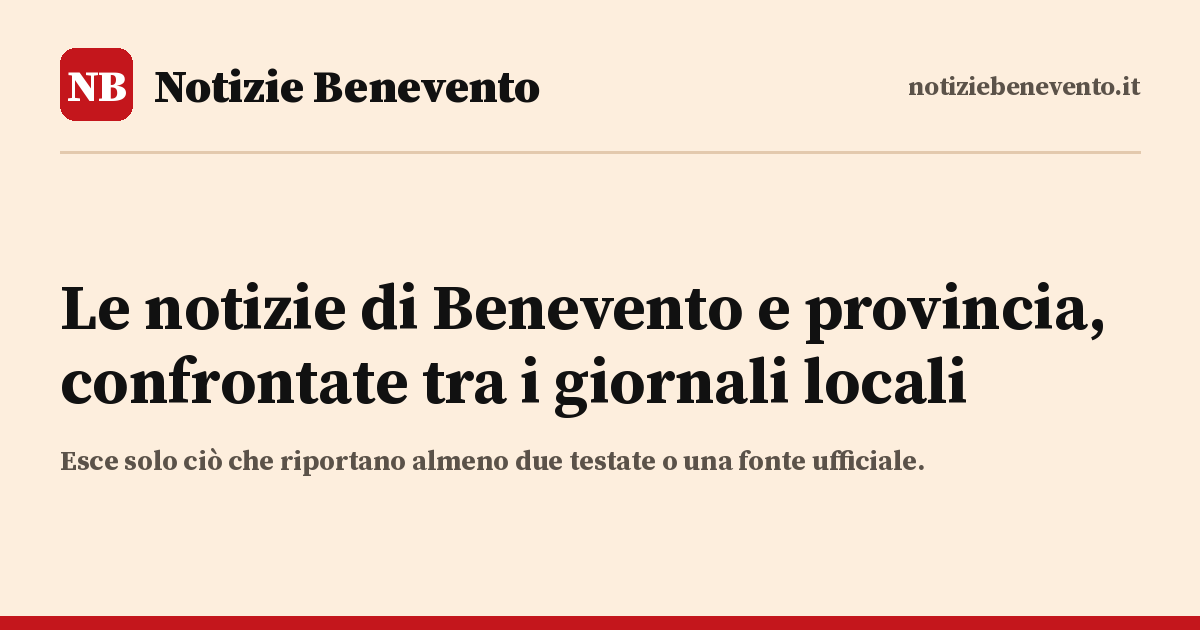
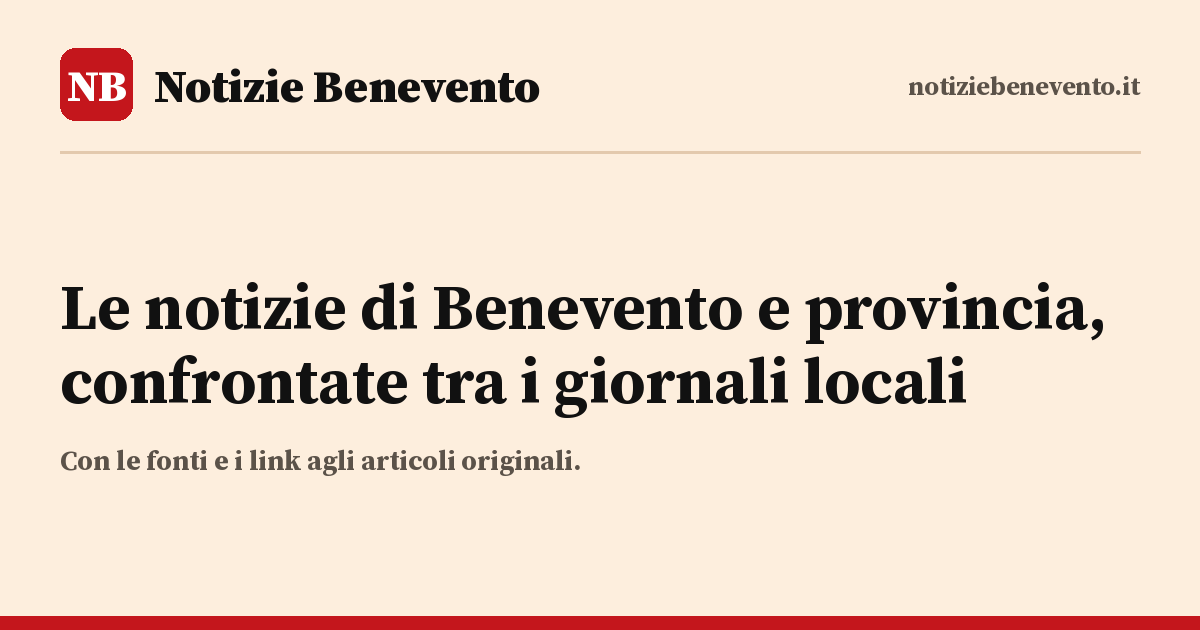
Agente: cronaca da un solo giornale autorevole (stato «una_fonte», scritta «Una sola fonte»), ASL e San Pio tra le fonti, TV7 e Il Caudino al posto di Quaderno, Corriere Sannita e Realtà Sannita, giro apposta sulle chiusure nei giorni di allerta

Changed region(s): [[0.0308, 0.6937, 0.7708, 0.754]]

diff --git a/index.html b/index.html
@@ -10,12 +10,12 @@
 <meta name="theme-color" content="#fdeedd">
 <!--seo-->
 <title>Notizie Benevento oggi: ultime notizie da Benevento e provincia</title>
-<meta name="description" content="Le ultime notizie di oggi da Benevento e dal Sannio: cronaca, strade, politica, eventi e allerte, confrontate tra i giornali locali. Esce solo ciò che riportano almeno due testate o una fonte ufficiale.">
+<meta name="description" content="Le ultime notizie di oggi da Benevento e dal Sannio: cronaca, strade, politica, eventi e allerte, confrontate tra i giornali locali, con i link agli articoli originali.">
 <link rel="canonical" href="https://notiziebenevento.it/">
 <meta property="og:type" content="website">
 <meta property="og:site_name" content="Notizie Benevento">
 <meta property="og:title" content="Notizie Benevento">
-<meta property="og:description" content="Le notizie di Benevento e provincia, confrontate tra i giornali locali. Esce solo ciò che riportano almeno due testate o una fonte ufficiale.">
+<meta property="og:description" content="Le notizie di Benevento e provincia, confrontate tra i giornali locali, con i link agli articoli originali.">
 <meta property="og:url" content="https://notiziebenevento.it/">
 <meta property="og:image" content="https://notiziebenevento.it/condivisione.png">
 <meta property="og:image:width" content="1200">
@@ -91,6 +91,7 @@
   .fonti a { color: var(--blu); }
   .fonti .conferma { color: var(--verde); font-weight: 700; }
   .fonti .ufficiale { color: #fff; background: var(--verde); padding: 0 5px; border-radius: 2px; font-weight: 700; }
+  .fonti .unafonte { color: #8a5300; font-weight: 700; }
   .nota { font-size: 13px; margin-top: 8px; padding: 6px 10px; border-left: 3px solid var(--rosso); background: rgba(255,255,255,.45); }
 
   .apertura { background: var(--carta-scura); padding: 18px 18px 6px; margin-bottom: 18px; }
@@ -444,7 +445,7 @@
 
   <footer>
     <p>Notizie Benevento è un report automatico: le notizie appartengono ai giornali citati. Qui le raccontiamo con parole nostre, confrontando le fonti, con i link agli articoli originali.</p>
-    <p>Una notizia compare solo se la riportano almeno due testate diverse oppure una fonte ufficiale (ANAS, INGV, Comuni, Prefettura, forze dell'ordine). Le accuse sono riportate con le parole usate dai giornali. Aggiornato ogni 2 ore, dalle 6 alle 22. Le visite si contano in forma anonima, senza cookie.</p>
+    <p>Una notizia compare se la riportano almeno due testate diverse oppure una fonte ufficiale (ANAS, INGV, Comuni, Prefettura, ASL, forze dell'ordine). La cronaca riportata da un solo giornale autorevole porta la scritta «Una sola fonte». Le accuse sono riportate con le parole usate dai giornali. Aggiornato ogni 2 ore, dalle 6 alle 22. Le visite si contano in forma anonima, senza cookie.</p>
     <p>Nessuna notizia viene cancellata: quando esce dalla prima pagina resta nell'<a href="#archivio">archivio</a>, allo stesso indirizzo.</p>
     <p class="sezioni-link">Sezioni: <a href="/sezione/strade/">Strade</a> · <a href="/sezione/cronaca/">Cronaca</a> · <a href="/sezione/politica/">Politica</a> · <a href="/sezione/eventi/">Eventi</a> · <a href="/sezione/allerte/">Allerte</a> · <a href="/sezione/altro/">Altro</a> · <a href="/meteo.html">Meteo Benevento</a><br>
       Zone: <a href="/zona/benevento/">Benevento città</a> · <a href="/zona/valle-telesina/">Valle Telesina</a> · <a href="/zona/valle-caudina/">Valle Caudina</a> · <a href="/zona/fortore/">Fortore e Tammaro</a> · <a href="/zona/altri-comuni/">Altri comuni</a> · <a href="/feed.xml">Feed RSS</a></p>
@@ -708,6 +709,7 @@
     var r = el("div", "fonti", []);
     var lista = Array.isArray(n.fonti) ? n.fonti : [];
     if (n.stato === "ufficiale") r.appendChild(el("span", "ufficiale", ["Fonte ufficiale"]));
+    else if (n.stato === "una_fonte") r.appendChild(el("span", "unafonte", ["Una sola fonte"]));
     else r.appendChild(el("span", "conferma", ["✓ " + lista.length + " fonti"]));
     r.appendChild(testo(" · "));
     lista.forEach(function (f, i) {
@@ -1062,6 +1064,7 @@
     var art = el("article", "appro", []);
     testataPagina(art, NOMI_CAT[n.categoria] || "Altro", n.luogo, n.titolo);
     art.appendChild(el("div", "meta", [(dallArchivio ? "Dall'archivio · " : "") + (n.pubblicato ? quando(n.pubblicato) + " · " : "") + fonti.length + (fonti.length === 1 ? " fonte" : " fonti confrontate")]));
+    if (n.stato === "una_fonte") art.appendChild(el("div", "nota", ["Per ora questo fatto lo riporta solo " + ((n.fonti || [])[0] || {}).nome + ". Lo aggiorniamo se arrivano altre fonti."]));
     var az = ascolta(testoArticolo(n));
     az.appendChild(condividi(n.titolo, linkArticolo(n), true));
     art.appendChild(az);

diff --git a/strumenti/pagine.py b/strumenti/pagine.py
@@ -45,7 +45,7 @@ SEZIONI = [
      "con le fonti ufficiali (ANAS, Provincia, Comuni) e i giornali locali messi a confronto."),
     ("sezione/cronaca", {"cat": "cronaca"}, "Cronaca Benevento: ultime notizie di cronaca dal Sannio",
      "Cronaca di Benevento e provincia", "Le notizie di cronaca di oggi da Benevento e dai paesi del Sannio, "
-     "confrontate tra i giornali locali: esce solo ciò che riportano almeno due testate o una fonte ufficiale."),
+     "confrontate tra i giornali locali, con i link agli articoli originali."),
     ("sezione/politica", {"cat": "politica"}, "Politica Benevento: Comune, Provincia e paesi del Sannio",
      "Politica a Benevento e nel Sannio", "Consiglio comunale, Provincia, Regione e paesi del Sannio: "
      "le notizie di politica di Benevento confrontate tra i giornali locali."),
@@ -75,7 +75,7 @@ SEZIONI = [
 ]
 CAT_PERCORSO = {s[1]["cat"]: s[0] for s in SEZIONI if "cat" in s[1]}
 DESCR_HOME = ("Le ultime notizie di oggi da Benevento e dal Sannio: cronaca, strade, politica, eventi e allerte, "
-              "confrontate tra i giornali locali. Esce solo ciò che riportano almeno due testate o una fonte ufficiale.")
+              "confrontate tra i giornali locali, con i link agli articoli originali.")
 
 
 def e(s):
@@ -230,7 +230,7 @@ def immagine_generica(path):
     y = 262
     for r in _a_capo("Le notizie di Benevento e provincia, confrontate tra i giornali locali", f, W - 120):
         d.text((60, y), r, font=f, fill="#111111"); y += 74
-    d.text((60, y + 30), "Esce solo ciò che riportano almeno due testate o una fonte ufficiale.",
+    d.text((60, y + 30), "Con le fonti e i link agli articoli originali.",
            font=_font(FONT_BOLD, 28), fill="#5b5249")
     d.rectangle([0, H - 14, W, H], fill="#c4161c")
     im.save(path, optimize=True)
@@ -322,7 +322,11 @@ def html_articolo(n, appro_collegato):
     fonti = a.get("fonti") if isinstance(a.get("fonti"), list) else []
     h = _testata_pagina(NOMI_CAT.get(n.get("categoria"), "Altro"), n.get("luogo"), n["titolo"])
     meta = ("Dall'archivio · " if n["_arch"] else "") + (data_it(n.get("pubblicato")) + " · " if n.get("pubblicato") else "")
-    h += f'<div class="meta">{e(meta)}{len(fonti)} {"fonte" if len(fonti) == 1 else "fonti confrontate"}</div>' + POSTO_ASCOLTA
+    h += f'<div class="meta">{e(meta)}{len(fonti)} {"fonte" if len(fonti) == 1 else "fonti confrontate"}</div>'
+    if n.get("stato") == "una_fonte" and n.get("fonti"):
+        h += (f'<div class="nota">Per ora questo fatto lo riporta solo {e(n["fonti"][0].get("nome", ""))}. '
+              'Lo aggiorniamo se arrivano altre fonti.</div>')
+    h += POSTO_ASCOLTA
     if foto_tema(n):
         b = foto_tema(n)[:-4]
         h += (f'<figure class="foto-tema"><img src="{b}-m.jpg" srcset="{b}-m.jpg 768w, {b}.jpg 1536w" '

diff --git a/strumenti/archivia.py b/strumenti/archivia.py
@@ -24,7 +24,10 @@ import sys
 
 CAT = {"strade", "cronaca", "meteo", "politica", "eventi", "altro"}
 ZONE = {"benevento", "telesina", "caudina", "fortore", "provincia"}
-STATI = {"confermata", "ufficiale"}
+STATI = {"confermata", "ufficiale", "una_fonte"}
+# le testate che da sole bastano per la cronaca (regola 2 di AGENTE.md), scritte senza spazi né maiuscole
+AUTOREVOLI = {"ilmattino", "ilsannioquotidiano", "ntr24", "ottopagine", "anteprima24", "labtv", "cronachedelsannio",
+              "beneventonews24", "tv7benevento"}
 VIETATE = ["choc", "shock", "incredibile", "ecco cosa", "non crederai", "!", "?"]
 ISO = re.compile(r"^\d{4}-\d{2}-\d{2}(T\d{2}:\d{2}(:\d{2})?[+-]\d{2}:\d{2})?$")
 GIORNO = re.compile(r"^\d{4}-\d{2}-\d{2}$")
@@ -230,6 +233,16 @@ def controlla(d, err, avv, adesso=None):
             testate = {re.sub(r"\s*\(.*\)$", "", x or "") for x in nomi_prima}
             if len(testate) < 2:
                 err.append(f"{w}: 'confermata' con meno di 2 testate")
+        if n.get("stato") == "una_fonte":
+            testate = {re.sub(r"[^a-z0-9]", "", re.sub(r"\s*\(.*\)$", "", x or "").lower()) for x in nomi_prima}
+            if len(testate) != 1:
+                err.append(f"{w}: 'una_fonte' vuole una sola testata (con due è 'confermata')")
+            elif not testate <= AUTOREVOLI:
+                err.append(f"{w}: 'una_fonte' solo con una testata autorevole (regola 2), non {nomi_prima[0]!r}")
+            if n.get("categoria") not in ("cronaca", "strade", "altro"):
+                err.append(f"{w}: 'una_fonte' solo per cronaca, strade o altro")
+            if n.get("rilevante"):
+                err.append(f"{w}: una notizia con una sola fonte non può essere 'rilevante'")
         if "immagine" in n:
             if n.get("categoria") == "cronaca":
                 err.append(f"{w}: niente immagine sulla cronaca (togli il campo immagine)")

diff --git a/strumenti/facebook.py b/strumenti/facebook.py
@@ -74,7 +74,10 @@ def candidate(notizie, gia, adesso):
 
 
 def messaggio(n):
-    return n["titolo"].strip() + ("\n\n" + n["sintesi"].strip() if n.get("sintesi") else "")
+    m = n["titolo"].strip() + ("\n\n" + n["sintesi"].strip() if n.get("sintesi") else "")
+    if n.get("stato") == "una_fonte" and n.get("fonti"):
+        m += f"\n\nPer ora lo riporta solo {n['fonti'][0].get('nome', '')}."
+    return m
 
 
 def chiama(metodo, percorso, token, dati=None):

diff --git a/AGENTE.md b/AGENTE.md
@@ -11,10 +11,19 @@ quello nuovo.
 
 1. **Solo notizie vere.** Mai inventare un fatto, un numero, un nome, un orario o una fonte. Se non l'hai letto
    in un articolo o in una fonte ufficiale, non esiste.
-2. **Una notizia esce solo se** la riportano **almeno due testate diverse**, oppure **una fonte ufficiale**
-   (Comune, Provincia, Prefettura, ANAS, INGV, Protezione Civile, forze dell'ordine). Due articoli dello stesso
-   giornale contano come una fonte.
-3. **Cronaca con persone coinvolte:** solo con almeno due testate. Le accuse si riportano **con le parole esatte
+2. **Una notizia esce se** la riportano **almeno due testate diverse**, oppure **una fonte ufficiale**
+   (Comune, Provincia, Prefettura, ASL, ospedale San Pio, ANAS, INGV, Protezione Civile, forze dell'ordine). Due
+   articoli dello stesso giornale contano come una fonte.
+   **Eccezione: cronaca da un solo giornale autorevole** (voluta dal proprietario il 21 ottobre 2026). Un fatto di
+   cronaca, di strade o di servizi (categorie `cronaca`, `strade`, `altro`) riportato da **una sola** di queste
+   testate può uscire con `"stato": "una_fonte"`: Il Mattino (Benevento), Il Sannio Quotidiano, NTR24, Ottopagine, Anteprima24, Lab TV, Cronache del Sannio, BeneventoNews24, TV7 Benevento. Prima fai una ricerca mirata per trovare la seconda fonte.
+   Il sito mostra da solo la scritta «Una sola fonte» e il nome del giornale. Non vale mai per: politica, allerte,
+   eventi, notizie `rilevante`, fatti scritti solo da altre testate (Infosannio, Fremondoweb, Gazzetta di Benevento,
+   Benevento Giornale, Il Caudino: con loro servono due testate). Appena una seconda testata riporta il fatto,
+   aggiungila e passa a `confermata`.
+3. **Cronaca con persone coinvolte:** almeno due testate, oppure una sola testata autorevole (regola 2). Con **una
+   sola fonte**, se il fatto accusa qualcuno (indagato, arrestato, denunciato, processato, condannato) **non
+   scrivere nome e cognome**: età, paese e ruolo bastano («un 53enne di Benevento»). Le accuse si riportano **con le parole esatte
    dei giornali** («indagato», «arrestato», «denunciato», «presunto»): mai aggiungere, mai riassumere un'accusa
    con parole più pesanti. Nomi di vittime minorenni (anche se oggi sono maggiorenni ma erano minorenni al
    momento del fatto): mai, da nessuna parte. Se il titolo di un articolo fonte contiene quel nome, nell'elenco
@@ -48,6 +57,8 @@ Lavora in parallelo (6-8 letture insieme). Per ogni fonte tieni nota: letta / no
   `https://webservices.ingv.it/fdsnws/event/1/query?starttime=<3h fa UTC>&lat=41.2&lon=14.65&maxradius=0.4&orderby=time&format=text`
   (riportare solo magnitudo ≥ 2.5 o sciami di ≥ 10 scosse)
 - San Marco dei Cavoti (feed): `https://www.comune.sanmarcodeicavoti.bn.it/feed/`
+- ASL Benevento, notizie e avvisi (screening, servizi, vaccini, ambulatori): `https://www.aslbenevento.it/notizie`
+- Ospedale San Pio di Benevento, news e avvisi: `https://www.aosanpio.it/categoria/news-ed-eventi/`
 - **Allerte ufficiali già confrontate (leggile per prime):** `https://notiziebenevento.it/meteo.json`, campo `allerte`.
   Lo aggiorna ogni ora il programma del meteo (`strumenti/meteo.py`): per oggi e domani dà il livello di ognuna
   delle 3 zone del Sannio dal **bollettino nazionale della Protezione civile** (`zone`: livello, rischio
@@ -62,8 +73,11 @@ Lavora in parallelo (6-8 letture insieme). Per ogni fonte tieni nota: letta / no
 
 **Giornali del Sannio (sempre, homepage o sezione):** ottopagine.it/bn/ · ilsannioquotidiano.it · ntr24.tv ·
 labtv.net · cronachedelsannio.it/sannionews24/ · fremondoweb.com/category/notizie-dalla-valle-telesina/ ·
-corrieresannita.it · gazzettabenevento.it · anteprima24.it/benevento/ · infosannionews.it · beneventogiornale.com ·
-beneventonews24.it · ilquaderno.it · realtasannita.it · ilmattino.it/benevento/
+gazzettabenevento.it · anteprima24.it/benevento/ · infosannionews.it · beneventogiornale.com ·
+beneventonews24.it · ilmattino.it/benevento/ · tvsette.net (TV7 Benevento: tieni solo le notizie del Sannio) ·
+ilcaudino.it/feed/ (Valle Caudina: tieni solo i Comuni della provincia di Benevento, non Cervinara, Rotondi, San
+Martino Valle Caudina e gli altri irpini). Il Sannio Quotidiano esce tutto tra le 7:30 e le 7:50 ed è spesso la
+seconda fonte dei fatti del giorno prima: al giro delle 8 controlla i fatti di ieri rimasti con una sola fonte.
 
 **Comuni senza feed (a ogni giro):** pagine notizie di
 `www.comune.<nome>.bn.it` per montesarchio, santagatadegoti, sangiorgiodelsannio, airola, sanbartolomeoingaldo,
@@ -109,6 +123,11 @@ Regole:
 - Le chiusure di più Comuni per la stessa allerta: **una sola notizia** aggiornata a ogni giro con l'elenco dei Comuni
   e cosa chiude (es. «Allerta arancione: chiusi scuole e parchi a Benevento, Montesarchio e Telese»), ogni Comune con
   la sua fonte (comunicato o ordinanza del Comune, oppure due giornali).
+- **Nei giorni di allerta** (gialla, arancione o rossa per oggi o domani), a ogni giro, oltre alle fonti solite:
+  cerca «scuole chiuse», «ordinanza» e «allerta» nei titoli di tutti i giornali letti e fai una ricerca mirata
+  («scuole chiuse <giorno> Sannio», «allerta <giorno> Comuni Benevento chiusure»). Per **ogni Comune nominato**
+  apri il suo sito (`www.comune.<nome>.bn.it`, anche se non è tra i 19 di sempre) e cerca l'ordinanza. Aggiorna
+  l'elenco della notizia delle chiusure anche se l'hai già scritta: deve crescere finché escono Comuni nuovi.
 - Le **previsioni del tempo no**: stanno nella pagina Meteo, che fa un programma a parte.
 
 ## Come lavorare una notizia
@@ -278,7 +297,7 @@ aggiorni a ogni giro, come notizie.json.
     "zona": "benevento|telesina|caudina|fortore|provincia",
     "immagine": "tema da img/temi/temi.json (facoltativo, mai per la cronaca)",
     "luogo": "paese o località", "pubblicato": "ISO dell'articolo fonte più recente, oppure solo AAAA-MM-GG se l'ora non è scritta",
-    "stato": "confermata|ufficiale", "rilevante": false,
+    "stato": "confermata|ufficiale|una_fonte (vedi regola 2)", "rilevante": false,
     "in_vigore_fino": "AAAA-MM-GG, solo per avvisi ufficiali con una scadenza (lavori, divieti, ordinanze)",
     "fonti": [ {"nome": "Testata", "url": "link all'articolo"} ],
     "nota": "solo se serve una correzione",
